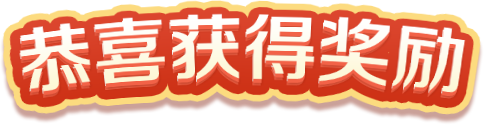
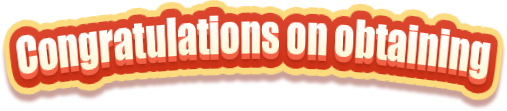
英文版提交

diff --git a/src/components/loginPopup.vue b/src/components/loginPopup.vue
@@ -11,16 +11,16 @@
         <div class="new-user-text">
           <div class="text">Newcomer price:</div>
           <div class="price">$0.00</div>
-          <div class="line-price">{{ boxSimInfo?.symbol + boxSimInfo?.price }}</div>
+          <div class="line-price">${{ boxSimInfo?.price }}</div>
         </div>
         <div class="time-text">
-          <span>commodity Locked, please register in </span>
+          <span>commodity Locked, please register in&nbsp</span>
           <count-down :time="time" :style="{lineHeight: 'inherit'}" @finish="onFinish">
             <template #default="timeData">
               <span class="time">{{ timeData.minutes }}</span>
-              <span class="time">min</span>
+              <span class="time"> min </span>
               <span class="time">{{ timeData.seconds }}</span>
-              <span class="time">s</span>
+              <span class="time"> s </span>
             </template>
           </count-down>
           <!--          <span> 内完成注册</span>-->
@@ -250,9 +250,10 @@ export default {
             // The signed-in user info.
             const user = result.user;
 
-            console.log("===>token:"+token)
-            console.log("===>user:"+user.email)
-            this.phone = user.uid
+            console.log("==result=>"+JSON.stringify(result))
+            console.log("==credential=>"+JSON.stringify(credential))
+
+            this.phone = user.providerData[0].uid
             this.googleAccountToken =  credential.idToken
             this.login()
           }).catch((error) => {
@@ -297,7 +298,7 @@ export default {
             window.localStorage.setItem('userType', data)
             await this.createNewUser()
           } else {
-            showToast('注册成功，正在为您抽奖中')
+            showToast('login was successful，draw on')
             this.show = false
             this.$emit('loginSuccess')
           }
@@ -308,13 +309,33 @@ export default {
     },
     async createNewUser() {
       try {
+
+        let bxmId = ''
+
+        // 获取由全部参数组成的字符串。
+        let query = window.location.search.substring(1);
+        // 分割参数，得到每一个参数字符串组成的数组。
+        let vars = query.split('&');
+        // 遍历数组，得到每一个参数字符串。
+        for (let i = 0; i < vars.length; i++) {
+          // 分割每一个参数字符串，得到参数名和参数值组成的数组。
+          var pair = vars[i].split('=');
+          // 如果参数名等于传入的param，则返回该值。
+          if (pair[0] == 'bxm_id') {
+            bxmId = decodeURI(pair[1])
+          }
+        }
+
         const {code} = await this.$request({
           url: API.createNewUser,
-          method: 'post'
+          method: 'post',
+          data: {
+            bxm_id: bxmId
+          }
         })
         if (code === 0) {
           window.localStorage.setItem('userType', '1')
-          showToast('注册成功，正在为您抽奖中')
+          showToast('login was successful，draw on')
           this.show = false
           this.$emit('loginSuccess')
         }
@@ -423,12 +444,12 @@ input.van-field__control::-webkit-input-placeholder {
   .time-text {
     display: flex;
     justify-content: center;
-    font-size: 28px;
+    font-size: 22px;
     color: #a15f00;
     margin: 15px 0;
 
     .time {
-      font-size: 28px;
+      font-size: 22px;
       color: #a15f00;
     }
   }

diff --git a/src/components/prizePopup.vue b/src/components/prizePopup.vue
@@ -9,10 +9,10 @@
           <div class="price">{{goods?.symbol}}{{ goods?.price }}</div>
         </div>
         <div class="time-text">
-          改商品已放入您的仓库, 请到「宾果盲盒」APP-仓库页面提取商品发货!
+          The commodity has been successfully received. Please apply for shipment in the 'BingoBox' APP
         </div>
         <div class="sub-btn" @click="goMyWin">
-          查看全部奖励
+          View all rewards
         </div>
       </div>
       <div class="close" @click="show=false">
@@ -112,7 +112,7 @@ export default {
 
   .time-text {
     width: 530px;
-    font-size: 30px;
+    font-size: 20px;
     color: #a15f00;
     margin: 25px auto;
     font-weight: bold;

diff --git a/src/pages/Win.vue b/src/pages/Win.vue
@@ -149,7 +149,7 @@ export default {
           url: API.createOrder,
           method: 'post',
           data: {
-            payType: userType  // 新人0元购的时候 传1，非0元购时传2
+            payType: userType === 1 ? 1 : 13  // 新人0元购的时候 传1，非0元购时传2
           }
         })
         if (code === 0) {

diff --git a/src/pages/Home.vue b/src/pages/Home.vue
@@ -194,7 +194,7 @@ export default {
           url: API.createOrder,
           method: 'post',
           data: {
-            payType: userType // 新人0元购的时候 传1，非0元购时传2
+            payType: userType === 1 ? 1 : 13 // 新人0元购的时候 传1，非0元购时传2
           }
         })
         if (code === 0) {
